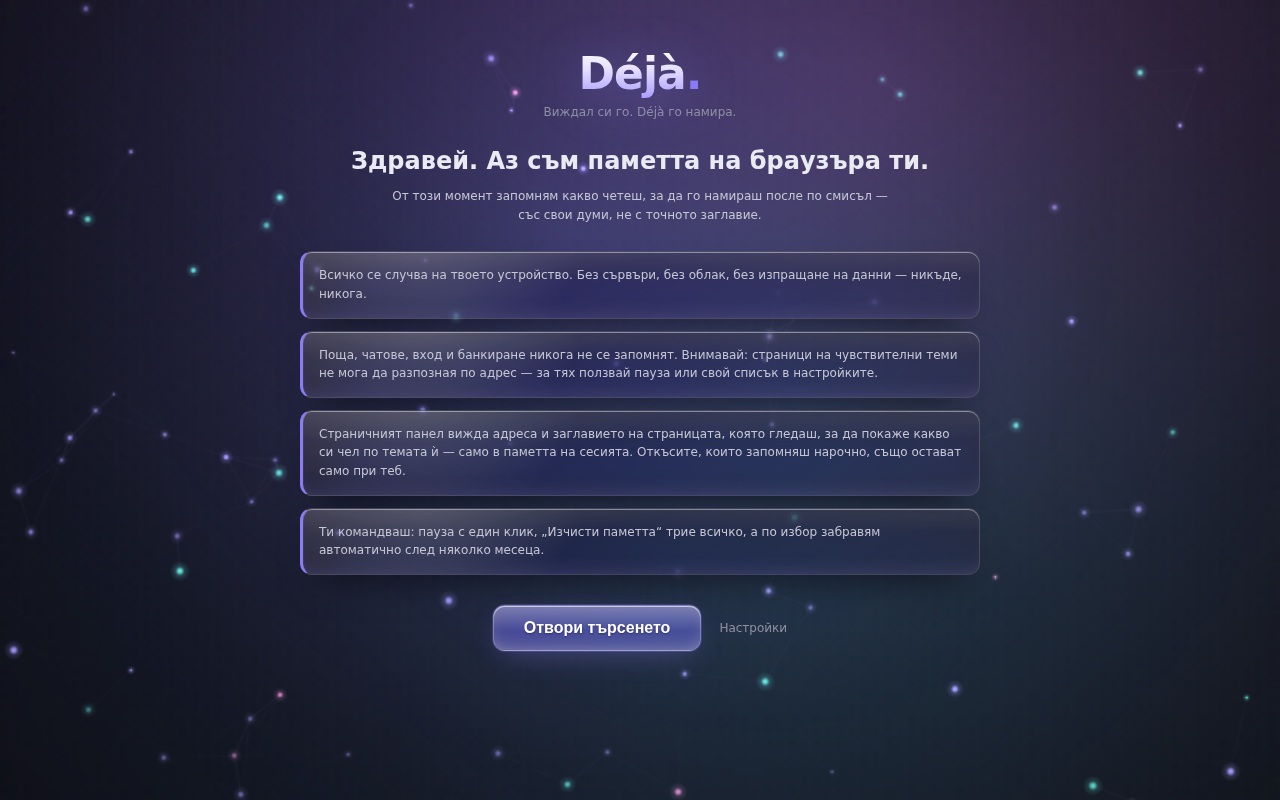
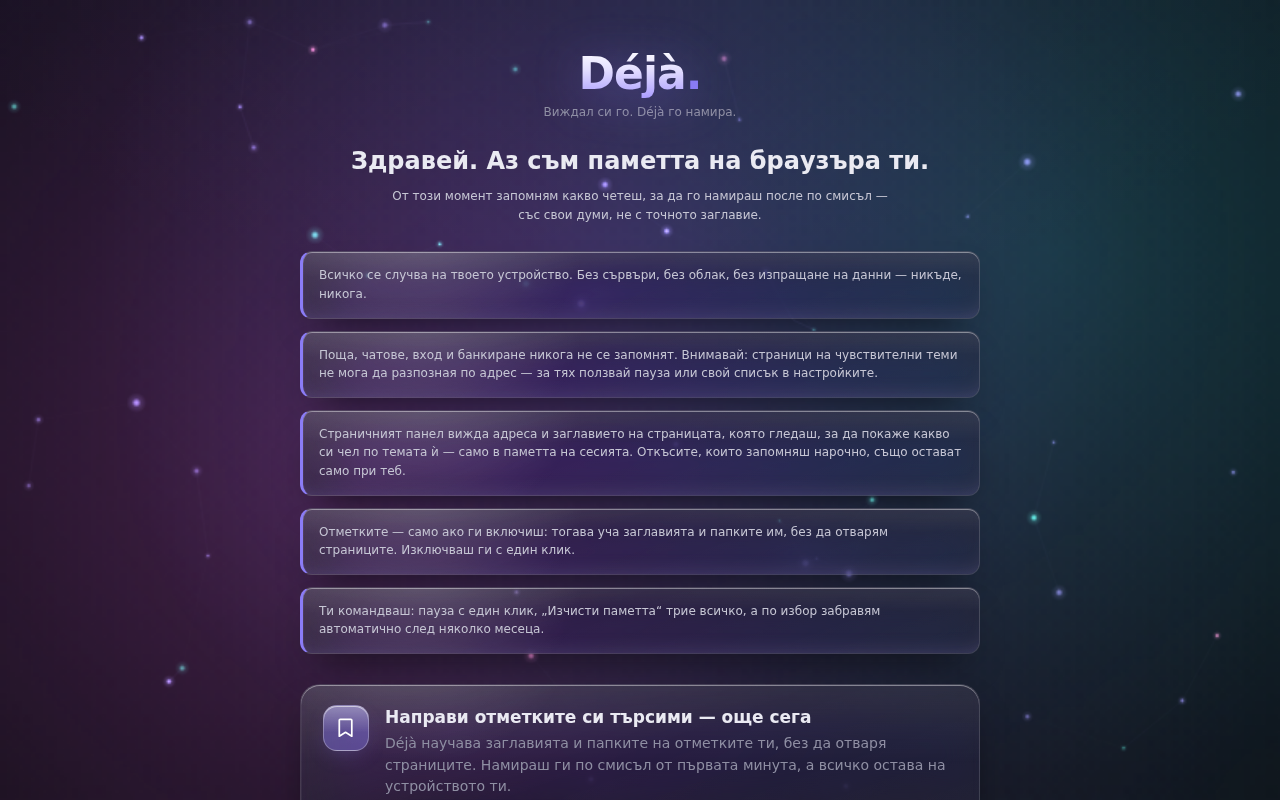
docs(deja): store снимки 1.5 — отметките търсими + welcome с новата точка
- нова снимка bookmarks-{en,bg}.png: истинският поток в млада памет (покана →
  „Научи отметките ми“ → готово → търсене „поход до планински езера“)
- welcome-{en,bg}.png преснимани (точката за отметките + поканата)
- ред в магазина: search → bookmarks → popup → sidepanel → welcome; резерва
  memory/options; отговорите от вградения AI умишлено НЕ са в снимките (иска
  поддържан хардуер — снимка с подменен модел би подвела)
- компактната покана скрива „паметта ти още е млада…“ след ученето

Claude-Session: https://claude.ai/code/session_01FAk4hVZMxR8cvpuBj6BMX7

diff --git a/deja/src/lib/bookmarks-ui.js b/deja/src/lib/bookmarks-ui.js
@@ -101,6 +101,8 @@ export function mountBookmarkCard(host, { compact = false, onProgress } = {}) {
     const state = enabled ? status?.state || 'running' : 'off';
     host.dataset.state = state;
     actions.hidden = state !== 'off';
+    // компактната покана („паметта ти още е млада…“) остарява след ученето
+    text.hidden = compact && state === 'done';
     progress.hidden = state !== 'running';
     if (state === 'running') {
       const pct = status?.total ? Math.round((status.done / status.total) * 100) : 4;

diff --git a/deja/store/LISTING.md b/deja/store/LISTING.md
@@ -9,13 +9,16 @@
 | # | EN (основен) | BG (езиков таб) | Какво показва |
 |---|---|---|---|
 | 1 | `search-en.png` | `search-bg.png` | семантично търсене през liquid glass, жива мрежа на спомените, откроени думи |
-| 2 | `popup-en.png` | `popup-bg.png` | стъкленият popup над реална статия (пауза, „забрави тази страница“) |
-| 3 | `sidepanel-en.png` | `sidepanel-bg.png` | страничният панел „по темата на тази страница“ до реална статия |
-| 4 | `memory-en.png` | `memory-bg.png` | „Моята памет“: списък, търсене, статистика, export/import |
+| 2 | `bookmarks-en.png` | `bookmarks-bg.png` | отметките търсими по смисъл от първата минута: „Опитай: <папка>“ + резултати със знак „Отметка · папка“ |
+| 3 | `popup-en.png` | `popup-bg.png` | стъкленият popup над реална статия (пауза, „забрави тази страница“) |
+| 4 | `sidepanel-en.png` | `sidepanel-bg.png` | страничният панел „по темата на тази страница“ до реална статия |
 | 5 | `welcome-en.png` | `welcome-bg.png` | прозрачност при инсталация (какво прави / не прави) |
 
-Резерва (ако някой от горните отпадне): `options-{en,bg}.png` — retention, собствен
-denylist, „Жив фон“ ключ. Всички се регенерират от реалния билд (Playwright, тъмна тема).
+Резерва: `memory-{en,bg}.png` („Моята памет“), `options-{en,bg}.png` (настройки).
+Отговорите от вградения AI НЕ са в снимките умишлено: изискват поддържан
+хардуер и модел, а снимка с отговор от подменен модел би подвела (политиката
+на CWS за подвеждащо представяне). Описанието ги споменава с условията.
+Всички се регенерират от реалния билд (Playwright, тъмна тема).
 
 **Промо графики** (`store/promo/`): `small-tile-440x280.png` (задължителен),
 `marquee-1400x560.png` (по избор). Store icon = `icons/icon128.png`.

diff --git a/deja/store/PUBLISH.md b/deja/store/PUBLISH.md
@@ -9,7 +9,7 @@
 |---|---|
 | Пакет за качване | `npm run zip` → `release/deja-<версия>.zip` (Chrome) · `npm run zip:firefox` → Firefox |
 | Store icon 128×128 | `icons/icon128.png` |
-| Скрийншоти 1280×800 (5 на език, EN + BG) | `store/screenshots/{search,popup,sidepanel,memory,welcome}-{en,bg}.png` (резерва: `options-*`) |
+| Скрийншоти 1280×800 (5 на език, EN + BG) | `store/screenshots/{search,bookmarks,popup,sidepanel,welcome}-{en,bg}.png` (резерва: `memory-*`, `options-*`) |
 | Промо tile 440×280 (задължителен) | `store/promo/small-tile-440x280.png` |
 | Marquee 1400×560 (по избор) | `store/promo/marquee-1400x560.png` |
 | Листинг текстове EN/BG, single purpose, обосновка на правата | `store/LISTING.md` |
@@ -40,8 +40,8 @@
 - Title / Summary / Description → от `LISTING.md` „EN listing“ (кратко ≤132).
 - Category: **Productivity → Tools**. Language: **English**.
 - Store icon: `icons/icon128.png`.
-- Screenshots: качи петте `*-en.png` **в този ред**: search → popup →
-  sidepanel → memory → welcome (първият е „главният“ кадър).
+- Screenshots: качи петте `*-en.png` **в този ред**: search → bookmarks →
+  popup → sidepanel → welcome (първият е „главният“ кадър).
 - Small promo tile: `store/promo/small-tile-440x280.png`. Marquee: по избор.
 - Official URL / Homepage: `https://deja.carbonstealth.eu`. Support URL: същият.
 - Add language → **Български** → BG текстовете от `LISTING.md` + `*-bg.png`.
